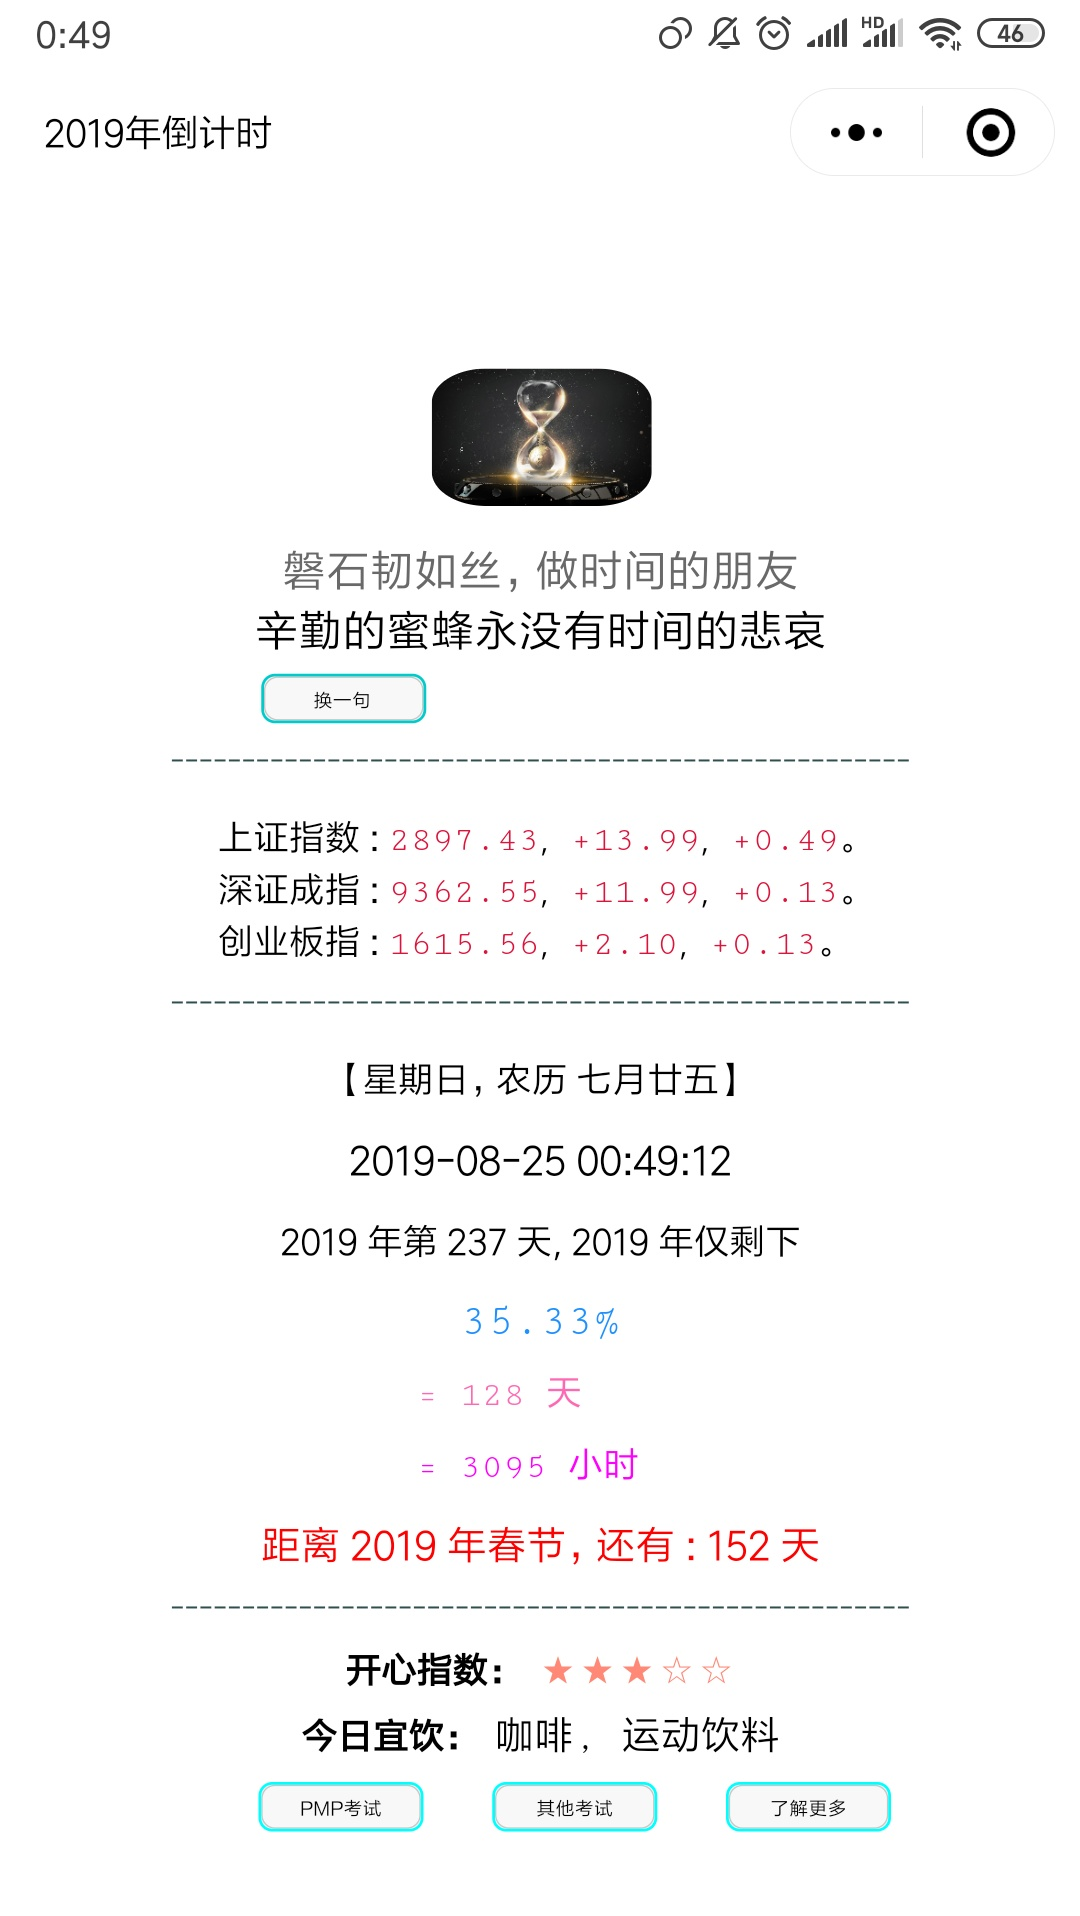
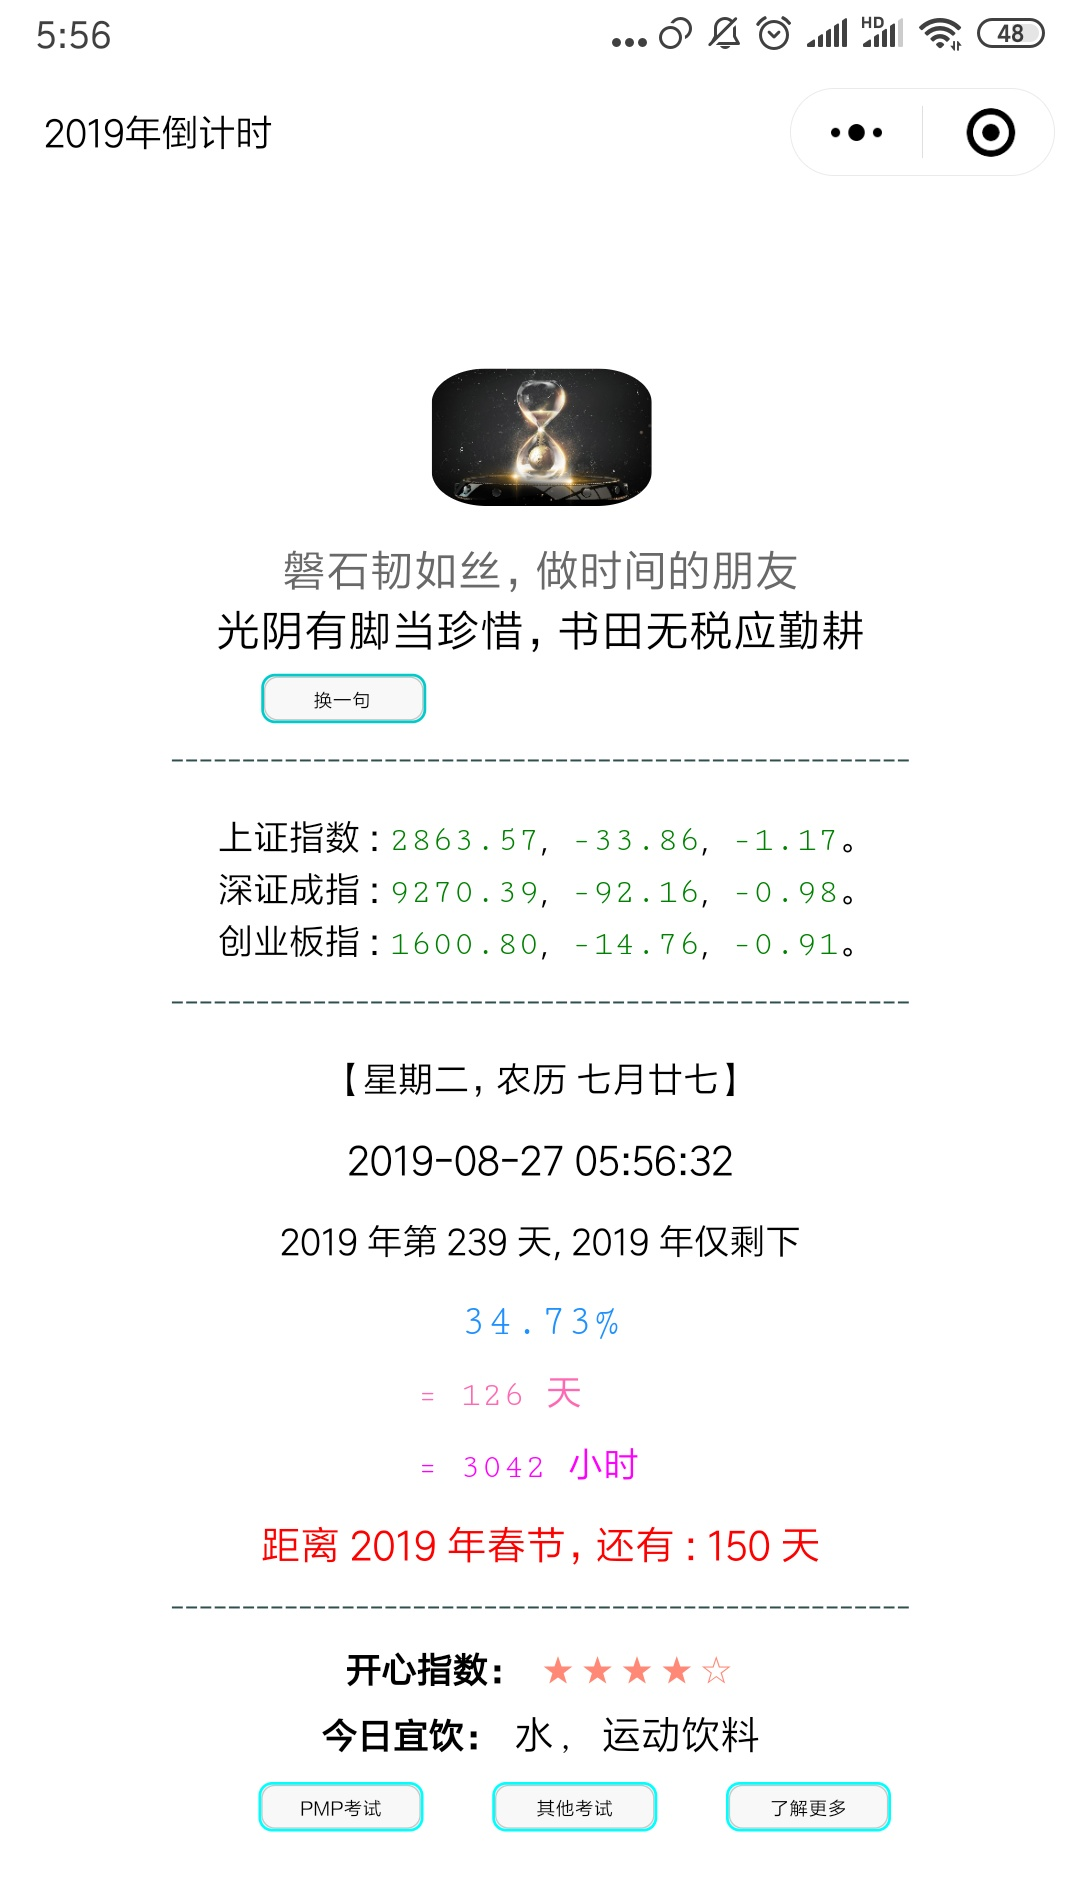
例行更新 20190827

diff --git a/source/_posts/001_2-FD_my_life_records-2019.md b/source/_posts/001_2-FD_my_life_records-2019.md
@@ -1,5 +1,5 @@
 ---
-title: 坚持的力量之数据人生-2019年8月25日
+title: 坚持的力量之数据人生-2019年8月27日
 tags:
   - 数据人生
   - 参考模板
@@ -20,14 +20,14 @@ keywords:
   - 宽978高553
 photos:
   - '/images/001_2/photos.png'
-description: 今天：2019 年 8 月 25 日，2019 年仅剩下 128 天。坚持记录和分析生活中的数据、信息和事件，尊重历史数据、信息和事件，人生将会更美好。
-date: 2019-08-25 00:02:05
+description: 今天：2019 年 8 月 27 日，2019 年仅剩下 126 天。坚持记录和分析生活中的数据、信息和事件，尊重历史数据、信息和事件，人生将会更美好。
+date: 2019-08-27 00:02:05
 ---
 <script type="text/javascript" src="/js/src/bai.js"></script>
 
-### 坚持的力量之数据人生-2019年8月25日
+### 坚持的力量之数据人生-2019年8月27日
 ------
-> 今天：2019 年 8 月 25 日，2019 年仅剩下 128 天。坚持记录和分析生活中的数据、信息和事件，尊重历史数据、信息和事件，人生将会更美好。
+> 今天：2019 年 8 月 27 日，2019 年仅剩下 126 天。坚持记录和分析生活中的数据、信息和事件，尊重历史数据、信息和事件，人生将会更美好。
 >
 > 序言：坚持记录和分析生活中的数据、信息和事件，尊重历史数据、信息和事件，人生将会更美好。
 
@@ -67,15 +67,15 @@ date: 2019-08-25 00:02:05
 
 | 序号 |       名称                                            |  类型  | 开始/结束日期 | 总天数 |          备注                           |
 | :--: | :---------------------------------------------------: | :----: | :-----------: | :----: | :-------------------------------------: |
-|  1   | <font color="#FF0000" size=2>读书荐书第 4/4 更</font> | 倒计时 | 2019/10/01    |  38    | 开始时间：2019/7/1                      |
-|  2   | <font color="#FF0000" size=2>重要节点</font>          | 倒计时 | 2020/03/01    |  192   | 开始时间：2018/6/15 剩余 10 个月        |
-|  3   | <font color="#0000FF" size=2>来上海</font>            | 计时   | 2011/06/25    |  2923  | 第 8 年进行中                           |
-|  4   | <font color="#0000FF" size=2>莫名其妙的计时</font>    | 计时   | 2018/11/12    |  282   | 莫名其妙的计时，希望永远不会停 ！！！   |
-|  5   | <font color="#0000FF" size=2>坚持减肥-3               | 计时   | 2019/08/31    |  26    | 坚持减肥，目标 65 公斤，保持一个月      |
+|  1   | <font color="#FF0000" size=2>读书荐书第 4/4 更</font> | 倒计时 | 2019/10/01    |  36    | 开始时间：2019/7/1                      |
+|  2   | <font color="#FF0000" size=2>重要节点</font>          | 倒计时 | 2020/03/01    |  190   | 开始时间：2018/6/15 剩余 10 个月        |
+|  3   | <font color="#0000FF" size=2>来上海</font>            | 计时   | 2011/06/25    |  2925  | 第 8 年进行中                           |
+|  4   | <font color="#0000FF" size=2>莫名其妙的计时</font>    | 计时   | 2018/11/12    |  284   | 莫名其妙的计时，希望永远不会停 ！！！   |
+|  5   | <font color="#0000FF" size=2>坚持减肥-3               | 计时   | 2019/08/31    |  28    | 坚持减肥，目标 65 公斤，保持一个月      |
 |  6   | <font color="#FF00FF" size=2>博客总计博文</font>      | 计数   | 2018/08/01    |  205   | [博客](/archives) 博文总计数目          |
 |  7   | <font color="#FF00FF" size=2>读书心得札记</font>      | 计数   | 2018/05/26    |  69    | [读书心得笔记并做笔记](/tags/札记人生/) |
 |  8   | <font color="#FF00FF" size=2>五篇好文推荐</font>      | 计数   | 2018/10/24    |  50    | [美文推荐](/tags/美文推荐/)             |
-|  9   | <font color="#FF00FF" size=2>公众号更新</font>        | 计数   | 2018/12/01    |  94    | [微信公众号（4 篇删除）](https://mp.weixin.qq.com/s/xxIkfGMFU7BaCeCJtdrtDg) |
+|  9   | <font color="#FF00FF" size=2>公众号更新</font>        | 计数   | 2018/12/01    |  95    | [微信公众号（4 篇删除）](https://mp.weixin.qq.com/s/xxIkfGMFU7BaCeCJtdrtDg) |
 
 #### 2. ❤ 今天记账了吗？记了，✔。 ❤
 ##### 2.1 记账信息详情
@@ -83,11 +83,11 @@ date: 2019-08-25 00:02:05
 
 | 日期                                   | 记账新增记录 | 记账总记录 | 记账总天数 | 记账时间      | 备注     |
 | :------:                               | :------:     | :------:   | :------:   | :------:      | :------: |
-|<font color="#000000"> 20190821 </font> | 2            | 10678      | 3103       | 8 年零 174 天 | 无       |
-|<font color="#000000"> 20190822 </font> | 5            | 10684      | 3104       | 8 年零 175 天 | 无       |
-|<font color="#000000"> 20190823 </font> | 4            | 10688      | 3105       | 8 年零 176 天 | 无       |
-|<font color="#000000"> 20190824 </font> | 5            | 10693      | 3106       | 8 年零 177 天 | 无       |
-|<font color="#FF0000"> 20190825 </font> | 4            | 10697      | 3107       | 8 年零 178 天 | 无       |
+|<font color="#000000"> 20190823 </font> | 4            | 10687      | 3105       | 8 年零 176 天 | 无       |
+|<font color="#000000"> 20190824 </font> | 5            | 10692      | 3106       | 8 年零 177 天 | 无       |
+|<font color="#000000"> 20190825 </font> | 4            | 10696      | 3107       | 8 年零 178 天 | 无       |
+|<font color="#000000"> 20190826 </font> | 11           | 10707      | 3108       | 8 年零 179 天 | 无       |
+|<font color="#FF0000"> 20190827 </font> | 9            | 10716      | 3109       | 8 年零 180 天 | 无       |
 
 #### 3. 历史数据汇总
 ##### 3.1 已结束倒计时或计时数据

diff --git a/source/_posts/001_1-FD_2018_year_all_checker-2019.md b/source/_posts/001_1-FD_2018_year_all_checker-2019.md
@@ -1,5 +1,5 @@
 ---
-title: 2019年每日日常综合打卡-2019年8月25日
+title: 2019年每日日常综合打卡-2019年8月27日
 tags:
   - 数据人生
   - 参考模板
@@ -21,14 +21,14 @@ keywords:
   - 宽978高553
 photos:
   - '/images/001_1/photos.png'
-description: 今天：2019 年 8 月 25 日，2019 年仅剩下 128 天。每天坚持打卡，8 月份针对每个任务打卡，慢慢来，一切都会更好的。
-date: 2019-08-25 00:01:01
+description: 今天：2019 年 8 月 27 日，2019 年仅剩下 126 天。每天坚持打卡，8 月份针对每个任务打卡，慢慢来，一切都会更好的。
+date: 2019-08-26 00:01:01
 ---
 <script type="text/javascript" src="/js/src/bai.js"></script>
 
-### 2019年每日日常综合打卡-2019年8月25日
+### 2019年每日日常综合打卡-2019年8月27日
 ---
-> 今天：2019 年 8 月 25 日，2018 年仅剩下 128 天。每日打卡，8 月份针对每个任务打卡，慢慢来，一切都会更好的。
+> 今天：2019 年 8 月 27 日，2018 年仅剩下 126 天。每日打卡，8 月份针对每个任务打卡，慢慢来，一切都会更好的。
 ---
 
 #### 2019 年年历
@@ -76,8 +76,8 @@ date: 2019-08-25 00:01:01
 | 23 |三 ⭕  |六 ⭕  |六 ⭕  |二 ⭕  |四 ⭕  |日 ⭕  |二 ⭕  |五 ⭕  |一     |三     |六     |一     |
 | 24 |四 ⭕  |日 ⭕  |日 ⭕  |三 ⭕  |五 ⭕  |一 ⭕  |三 ⭕  |六 ⭕  |二     |四     |日     |二     |
 | 25 |五 ⭕  |一 ⭕  |一 ⭕  |四 ⭕  |六 ⭕  |二 ⭕  |四 ⭕  |日 ⭕  |三     |五     |一     |三     |
-| 26 |六 ⭕  |二 ⭕  |二 ⭕  |五 ⭕  |日 ⭕  |三 ⭕  |五 ⭕  |一     |四     |六     |二     |四     |
-| 27 |日 ⭕  |三 ⭕  |三 ⭕  |六 ⭕  |一 ⭕  |四 ⭕  |六 ⭕  |二     |五     |日     |三     |五     |
+| 26 |六 ⭕  |二 ⭕  |二 ⭕  |五 ⭕  |日 ⭕  |三 ⭕  |五 ⭕  |一 ⭕  |四     |六     |二     |四     |
+| 27 |日 ⭕  |三 ⭕  |三 ⭕  |六 ⭕  |一 ⭕  |四 ⭕  |六 ⭕  |二 ⭕  |五     |日     |三     |五     |
 | 28 |一 ⭕  |四 ⭕  |四 ⭕  |日 ⭕  |二 ⭕  |五 ⭕  |日 ⭕  |三     |六     |一     |四     |六     |
 | 29 |二 ⭕  |无     |五 ⭕  |一 ⭕  |三 ⭕  |六 ⭕  |一 ⭕  |四     |日     |二     |五     |日     |
 | 30 |三 ⭕  |无     |六 ⭕  |二 ⭕  |四 ⭕  |日 ⭕  |二 ⭕  |五     |一     |三     |六     |一     |
@@ -114,8 +114,8 @@ date: 2019-08-25 00:01:01
 | 23 <font color="#000000">五</font> | ⭕        | ⭕        | ⭕        | ⭕        | ⭕        | ⭕        |           |
 | 24 <font color="#FF0000">六</font> | ⭕        | ⭕        | ⭕        | ⭕        | ❌         | ⭕        |           |
 | 25 <font color="#FF0000">日</font> | ⭕        | ⭕        | ⭕        | ⭕        | ⭕        | ⭕        |           |
-| 26 <font color="#000000">一</font> |           |           |           |           |           |           |           |
-| 27 <font color="#000000">二</font> |           |           |           |           |           |           |           |
+| 26 <font color="#000000">一</font> | ⭕        | ⭕        | ⭕        | ⭕        | ⭕        | ⭕        |           |
+| 27 <font color="#000000">二</font> | ⭕        | ⭕        | ⭕        | ⭕        | ❌         | ⭕        |           |
 | 28 <font color="#000000">三</font> |           |           |           |           |           |           |           |
 | 29 <font color="#000000">四</font> |           |           |           |           |           |           |           |
 | 30 <font color="#000000">五</font> |           |           |           |           |           |           |           |

diff --git a/source/_posts/049_my-one-tab-urls-02.md b/source/_posts/049_my-one-tab-urls-02.md
@@ -35,7 +35,7 @@ keywords:
 photos:
  - '/images/049/MoKt35C.jpg'
 description: 1. 学习相关 2. 康奈尔笔记法 3. 效率生活和工作 4. 子弹笔记：极简手帐攻略。 5. WorkFlowy 是一款基于云端的、只支持纯文字的工具。 6. 知乎精华帖……
-date: 2019-04-24 19:30:50
+date: 2019-08-27 05:30:50
 ---
 <script type="text/javascript" src="/js/src/bai.js"></script>
 
@@ -140,6 +140,7 @@ date: 2019-04-24 19:30:50
 > [URL](https://www.zhihu.com/question/27484486)：如何保持长期、持续、稳定的努力？
 > [URL](https://www.zhihu.com/question/27741189)：Kindle 有哪些鲜为人知的使用技巧？
 > [URL](https://www.zhihu.com/question/323459753)：有哪些让你相见恨晚的思维方式？
+> [URL](https://www.zhihu.com/question/36825620)：如果让你列一个最功利化的书单，你会列什么？
 
 #### 7. Books
 > [URL](https://docs.google.com/spreadsheets/d/e/2PACX-1vQDca1iI1GgcMwBl65XRvJaAnZOv6sCjmAamy_7cioVMV4U_VnBksgZrIKTe5P4aneEXtion1ZA7iPe/pubhtml#) ：Pinker Book Recommendations
@@ -200,4 +201,5 @@ date: 2019-04-24 19:30:50
 > v2.1.2，2019-01-31，知乎分类下新增  [有哪些数学上的事实，没有一定数学知识的人不会相信？](https://www.zhihu.com/question/288093713)，[为什么觉得英文原版教材很啰嗦？](https://www.zhihu.com/question/22241846)。
 > v2.4.1，2019-04-24，知乎分类下新增  [如何做到像使用 LaTeX 那样优雅地使用 Word？](https://www.zhihu.com/question/20541531)。
 > v2.4.2，2019-04-28，知乎分类下新增  [如何保持长期、持续、稳定的努力？](https://www.zhihu.com/question/27484486)。
-> v2.4.3, 2019-08-01, 知乎分类下新增  [Kindle 有哪些鲜为人知的使用技巧？](https://www.zhihu.com/question/27741189)，[有哪些让你相见恨晚的思维方式？](https://www.zhihu.com/question/323459753)。
+> v2.8.1, 2019-08-01, 知乎分类下新增  [Kindle 有哪些鲜为人知的使用技巧？](https://www.zhihu.com/question/27741189)，[有哪些让你相见恨晚的思维方式？](https://www.zhihu.com/question/323459753)。
+> v2.8.2, 2019-08-26, 知乎分类下新增  [如果让你列一个最功利化的书单，你会列什么？](https://www.zhihu.com/question/36825620)。
